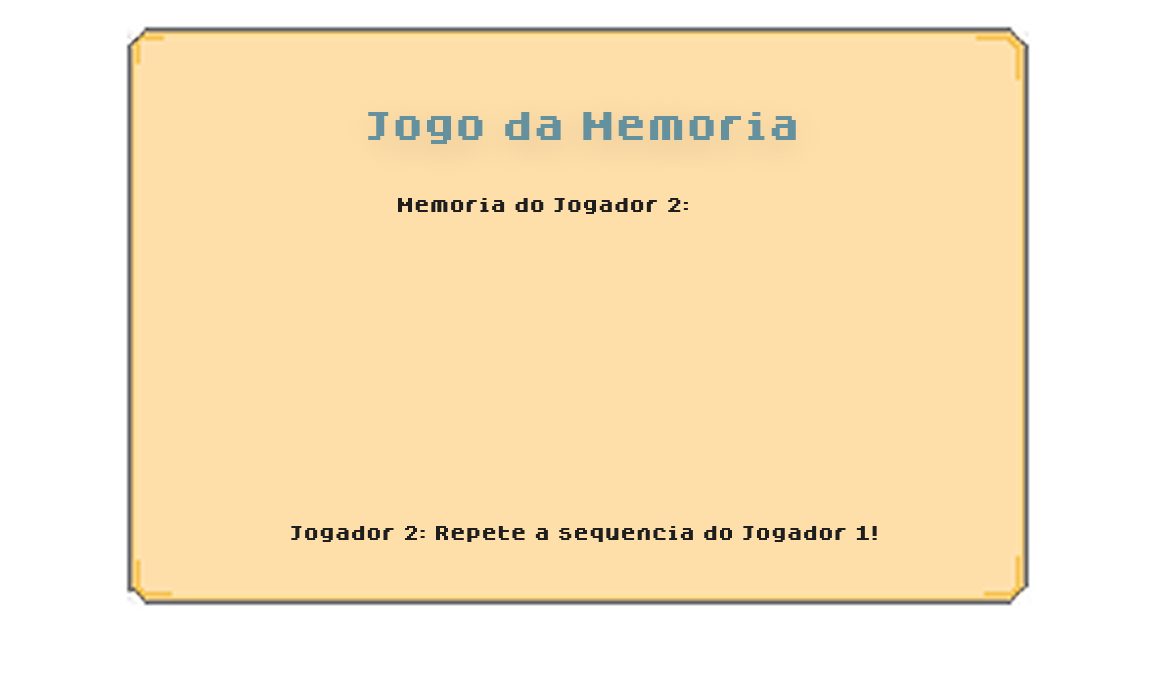
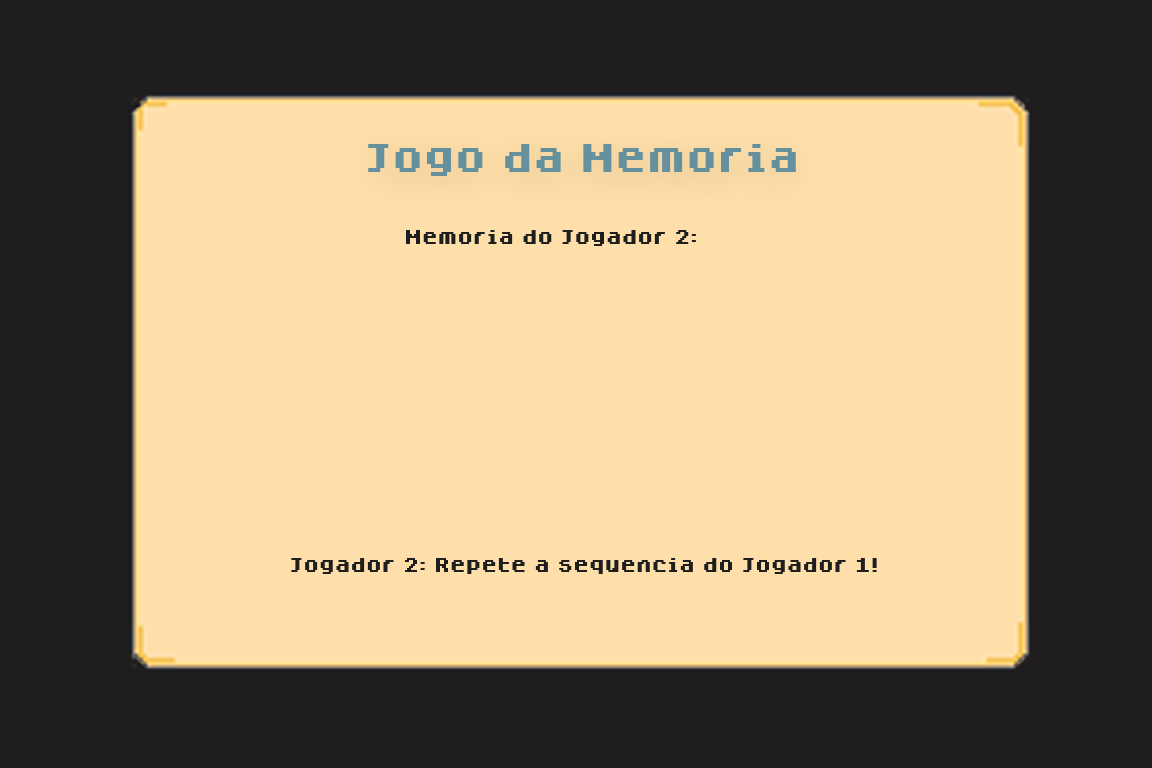
minigame 2

diff --git a/iscte-sintra-simulator/game/minigames/minigame2.py b/iscte-sintra-simulator/game/minigames/minigame2.py
@@ -61,15 +61,44 @@ def open_dialog(screen):
 # def close_dialog(self, players, screen):
 #     if self.checkProximity(players, screen): self.openDialog = False
 
-def main():
+def minigame2():
     global game_phase, sequence_p1, sequence_p2, player_input_p1, player_input_p2, score_p1, score_p2, result_message
 
     clock = pygame.time.Clock()
     running = True
+    
+    
+    image1 = pygame.image.load("iscte-sintra-simulator/assets/images/minigame2/minigame2_1.png").convert_alpha()
+    image2 = pygame.image.load("iscte-sintra-simulator/assets/images/minigame2/minigame2_2.png").convert_alpha()
+    image3 = pygame.image.load("iscte-sintra-simulator/assets/images/minigame2/minigame2_3.png").convert_alpha()
+    image4 = pygame.image.load("iscte-sintra-simulator/assets/images/minigame2/minigame2_4.png").convert_alpha()
+    image5 = pygame.image.load("iscte-sintra-simulator/assets/images/minigame2/minigame2_5.png").convert_alpha()
+    # Scale images to fit the screen
+    image1 = pygame.transform.scale(image1, (WIDTH, HEIGHT))
+    image2 = pygame.transform.scale(image2, (WIDTH, HEIGHT))
+    image3 = pygame.transform.scale(image3, (WIDTH, HEIGHT))
+    image4 = pygame.transform.scale(image4, (WIDTH, HEIGHT))
+    image5 = pygame.transform.scale(image5, (WIDTH, HEIGHT))
 
     while running:
-        screen.fill(WHITE)
+        # Clear the skin
+        screen.fill(WHITE) 
+        
 
+        # Draw background image based on game phase
+        if game_phase == "input_p1":
+            screen.blit(image1, (0, 0))  # Show image1 for input_p1
+        elif game_phase == "repeat_p2":
+            screen.blit(image2, (0, 0))  # Show image2 for repeat_p2
+        elif game_phase == "input_p2":
+            screen.blit(image3, (0, 0))  # Show image3 for input_p2
+        elif game_phase == "repeat_p1":
+            screen.blit(image4, (0, 0))  # Show image4 for repeat_p1
+        
+        else:
+            screen.blit(image5,(0,0))
+        
+        
         for event in pygame.event.get():
             if event.type == pygame.QUIT:
                 running = False
@@ -79,10 +108,10 @@ def main():
             # Player 1 inputs sequence
             if game_phase == "input_p1" and event.type == pygame.KEYDOWN:
                 if event.key == pygame.K_SPACE and sequence_p1:  # Press space to end player 1 sequence
-                    open_dialog(screen);
-
+                    # open_dialog(screen);
                     game_phase = "repeat_p2"
                     player_input_p2 = ""
+
                 elif event.key not in RESTRICTED_KEYS and event.unicode.isprintable():
                     sequence_p1 += event.unicode
             
@@ -99,6 +128,7 @@ def main():
                     elif player_input_p2 == sequence_p1:
                         
                         game_phase = "input_p2"
+
                         sequence_p2 = ""  # Reset for next round
                   
             elif game_phase == "input_p2" and event.type == pygame.KEYDOWN:
@@ -123,41 +153,28 @@ def main():
         if game_phase == "end":
             if score_p1 > score_p2:
                 result_message = "O jogador 1 ganha! Uma Sweat Iscte-Sintra para ti J1"
-            elif score_p1 < score_p1:
+            elif score_p1 < score_p2:
                 result_message = "O jogador 2 ganha! Uma Sweat Iscte-Sintra para ti J2"
             else:
                 result_message = "Empate, ninguem recebe nada..."
         # UI Drawing
-        draw_text("Testem as vossas memorias!", 50, 20)
 
         if game_phase == "input_p1":
-            draw_text("Jogador 1: Escreve a sequencia e pressiona ESPAÇO!", 50, 100)
-            draw_text("Sequencia do Jogador 1: " + sequence_p1, 50, 150)
+            draw_text(sequence_p1, 500, 250)
 
         elif game_phase == "repeat_p2":
-            draw_text("Jogador 2: Repete a sequencia do Jogador 1!", 50, 100)
-            draw_text("Sequencia do Jogador 2: " + player_input_p2, 50, 150)
+            draw_text(player_input_p2, 500, 250)
 
         elif game_phase == "input_p2":
-            draw_text("Jogador 2: Escreve a sequencia e pressiona ESPAÇO!", 50, 100)
-            draw_text("Sequencia do Jogador 2: " + sequence_p2, 50, 150)
+            draw_text(sequence_p2, 500, 250)
 
         elif game_phase == "repeat_p1":
-            draw_text("Jogador 1: Repete a sequencia do Jogador 2!", 50, 100)
-            draw_text("Sequencia do Jogador 1: " + player_input_p1, 50, 150)
+            draw_text(player_input_p1, 500, 250)
 
         elif game_phase == "end":
-            draw_text(result_message, 200, 150, GREEN if "ganha"  in result_message else RED)
-            draw_text("Jogo terminado!", 180, 250)
+            draw_text(result_message, 200, 300)
 
         pygame.display.flip()
         clock.tick(30)
 
     pygame.quit()
-
-
-
-
-
-if __name__ == "__main__":
-    main()

diff --git a/iscte-sintra-simulator/game/minigames/tempCodeRunnerFile.py b/iscte-sintra-simulator/game/minigames/tempCodeRunnerFile.py
@@ -1,1 +1,1 @@
-        # dialog = pygame.transform.scale(dialog, (int(dialog.get_width() * 1.5), int(dialog.get_height() * 1.5)))
+explain_image = pygame.transform.scale(explain_image, (WIDTH, HEIGHT))
